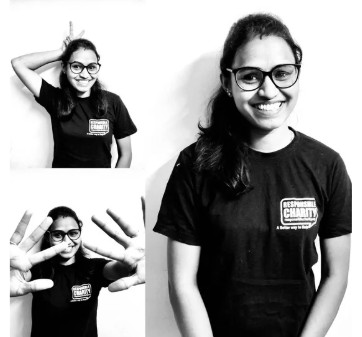
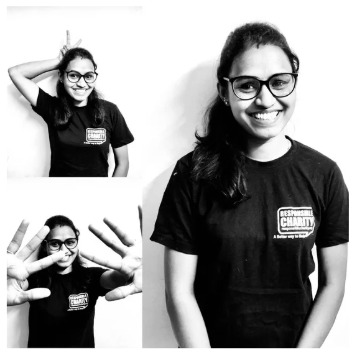
The team photos are now uncropped, and the Our Work section has been cleaned up with text sizes matched across relevant areas.
- The Our Story team grid displays every member's full photos without cropping, showing two playful shots alongside the full portrait, arranged in five per row similar to your reference image. No one appears cut off on desktop.
- In Our Work, the small “…and more” lines under Education, Health & Wellness, and Employment have been removed, and the duplicate Kolkata/Pune buttons under the Schools & Colleges boxes are gone, keeping one set of buttons per box.
- Text sizes for the Community Centers description on Our Story and the “Giving on behalf of a company? Let's talk about a CSR partnership” line on Donate now have been aligned to match the description size used in Our Work.
- I have checked the preview thoroughly: opened Our Story, Our Work, and Donate to confirm that all 16 team blocks render fully uncropped in the 5-column layout, stray texts and extra buttons are removed, and the text fixes match the desired sizes (24px on desktop).

Please open the preview yourself and examine the Our Story team grid to verify everything appears as expected. If you notice any issues or if further adjustments are needed, please let me know, and I can continue refining the build with comprehensive testing.

Reminder: press Deploy when you are ready to take this batch live. Note that preview and live site update separately.

Credentials & handoff: admin at /admin, passcode rc-aimgame-admin-2026 for testing. Donations remain simulated until Razorpay keys are added.

Next Action Items:
[…]

diff --git a/frontend/src/pages/Program.jsx b/frontend/src/pages/Program.jsx
@@ -68,8 +68,6 @@ const PILLARS = [
         ],
       },
     ],
-    closing: "…and so much more.",
-    albumLabel: "See the albums over the years",
   },
   {
     id: "healthcare",
@@ -108,8 +106,6 @@ const PILLARS = [
         ],
       },
     ],
-    closing: "…and more.",
-    albumLabel: "See the full Healthcare album",
   },
   {
     id: "employment",
@@ -147,8 +143,6 @@ const PILLARS = [
         ],
       },
     ],
-    closing: "…and more.",
-    albumLabel: "See the full Employment album",
   },
 ];
 
@@ -275,8 +269,9 @@ const PillarSection = ({ pillar }) => (
       </div>
 
       <Reveal delay={0.1}>
-        <p className="mt-10 text-ink-muted">{pillar.closing}</p>
-        <AlbumButtons page="our-work" block={pillar.id} align="start" />
+        <div className="mt-10">
+          <AlbumButtons page="our-work" block={pillar.id} align="start" />
+        </div>
       </Reveal>
     </div>
   </section>
@@ -373,33 +368,10 @@ const SchoolsPillar = () => (
         ))}
       </div>
 
-      <Reveal delay={0.1}>
-        <div className="mt-10 flex flex-wrap gap-2">
-          {[
-            { label: "PUNE", url: "https://www.facebook.com/media/set/?set=a.2511811812163179&type=3" },
-            { label: "KOLKATA", url: "https://www.facebook.com/media/set/?set=a.2511811812163179&type=3" },
-          ].map((a) => (
-            <a
-              key={a.label}
-              href={a.url}
-              target="_blank"
-              rel="noopener noreferrer"
-              data-testid={`schools-album-${a.label.toLowerCase()}`}
-              onClick={() => {
-                window.dataLayer = window.dataLayer || [];
-                window.dataLayer.push({ event: "album_click", page: "our-work", block: "schools", city: a.label });
-              }}
-              className="inline-flex min-h-[36px] items-center gap-1.5 rounded-full bg-leaf-soft border border-leaf/25 px-4 font-mono text-[10px] tracking-[0.15em] font-bold text-leaf transition-colors duration-300 hover:bg-leaf hover:text-white"
-            >
-              <Facebook className="h-3 w-3" />
-              {a.label}
-            </a>
-          ))}
-        </div>
-      </Reveal>
-
       <Reveal delay={0.12}>
-        <AlbumButtons page="our-work" block="schools" align="start" />
+        <div className="mt-10">
+          <AlbumButtons page="our-work" block="schools" align="start" />
+        </div>
       </Reveal>
     </div>
   </section>

diff --git a/frontend/src/pages/About.jsx b/frontend/src/pages/About.jsx
@@ -80,20 +80,16 @@ const About = () => (
           </Reveal>
         </div>
 
-        <div data-testid="story-collage" className="mt-14 grid grid-cols-2 sm:grid-cols-3 lg:grid-cols-4 gap-2 sm:gap-3">
+        <div data-testid="story-collage" className="mt-14 grid grid-cols-2 sm:grid-cols-3 lg:grid-cols-5 gap-3 sm:gap-5">
           {STORY_PHOTOS.map((p, i) => (
             <Reveal key={p.src} delay={0.05 + i * 0.04}>
-              <div
+              <img
                 data-testid={`story-photo-${i}`}
-                className="group w-full overflow-hidden rounded-2xl border border-ink/10 bg-white shadow-[0_20px_50px_-24px_rgba(15,23,42,0.25)]"
-              >
-                <img
-                  src={p.src}
-                  alt={p.alt}
-                  loading={i < 5 ? "eager" : "lazy"}
-                  className="h-full w-full object-cover aspect-[3/2] transition-transform duration-700 group-hover:scale-[1.04]"
-                />
-              </div>
+                src={p.src}
+                alt={p.alt}
+                loading={i < 5 ? "eager" : "lazy"}
+                className="w-full h-auto block"
+              />
             </Reveal>
           ))}
         </div>
@@ -126,7 +122,7 @@ const About = () => (
             </p>
           </Reveal>
           <Reveal delay={0.14}>
-            <p data-testid="centers-description" className="mt-6 text-leaf font-semibold text-lg sm:text-xl leading-relaxed">
+            <p data-testid="centers-description" className="mt-6 text-leaf font-semibold text-xl sm:text-2xl leading-relaxed">
               Our community centers are where the program lives day to day. After school, students come for
               tutoring, music classes, yoga and games. Parents come for meetings and workshops. Supplies are
               distributed here, and visitors are welcome by arrangement. It's a second home for our students,

diff --git a/frontend/src/pages/Partner.jsx b/frontend/src/pages/Partner.jsx
@@ -509,14 +509,14 @@ const Partner = () => {
             </p>
           </Reveal>
           <Reveal delay={0.24}>
-            <p className="mt-6 text-sm text-ink">
+            <p className="mt-6 text-xl sm:text-2xl text-ink font-semibold leading-relaxed">
               Giving on behalf of a company?{" "}
               <Link
                 to="/csr-partners"
                 data-testid="donate-csr-link"
                 className="inline-flex items-center gap-1 font-bold text-flame transition-colors hover:text-flame-dark"
               >
-                Let's talk about a CSR partnership <ArrowUpRight className="h-4 w-4" />
+                Let's talk about a CSR partnership <ArrowUpRight className="h-5 w-5" />
               </Link>
             </p>
           </Reveal>

diff --git a/memory/PRD.md b/memory/PRD.md
@@ -159,3 +159,11 @@ Brief (from PDF): A rebooted website for Responsible Charity (RC) Society, a reg
 - Batch (Oct 27, rev 9): (1) Donate page header now exactly matches the design mockup: centered title case "Donate Today and Be Part of the Journey" (ink + flame split), green centered subheader, centered gray intro paragraph, CSR partnership link left-aligned below. (2) Fixed donut rendering bug: the 12-segment chart rendered as a solid ring because tiny segments (0.3%) made strokeDasharray go negative — gap now only applied when segment length > 8. Donut renders green-dominant with orange operations wedge like the mockup. (3) CSR dropdown (Education / Health & Wellness / Career & Employment Counseling) was already live from rev 8 — user's screenshot was a stale pre-change capture
 - Batch (Oct 27, rev 10): DONATE page: (1) header block fully LEFT-aligned (h1 dark+flame split, green subheader), and the 3rd intro line is now BLACK (text-ink) at description size (text-lg sm:text-xl font-semibold) matching other pages' descriptions. (2) Donation widget rebuilt to match the mockup exactly: donor-type selection step REMOVED (flow starts at 01 AMOUNT; stepper now AMOUNT/DETAILS/DONE; CSR visitors use the "Giving on behalf of a company?" link to /csr-partners), default selected gift is ₹25,000 (tile 3), custom-amount input removed (6 gift cards only), big full-width DONATE pill button replaces Back/Continue, fine print under it ("Donations are accepted in INR…" + "Read the full donation terms." anchor link to the terms section, which now has id="donation-terms" scroll-mt-32), and "Prefer a bank transfer or UPI? Request our details." leaf link routes to the giving-desk step. Removed dead code: TYPES, StepType, StepQualify, qForm/doQualify/pickType, MIN_DONATION import; successMode is now explicit state ("donation" set by doPay, "conversation" by doDesk). Verified: AMOUNT step renders with 25000 preselected, DONATE → payment step, UPI link → giving desk, payment back → amount. NOTE: navbar shows the AimGame wordmark banner (banner.png) at top-right when unscrolled — pre-existing behavior, not from this batch
 - Batch (Oct 27, rev 11): (1) GLOBAL TYPOGRAPHY RULE applied to all pages except Home (keeps larger hero font): HEADER green (text-leaf uppercase), SUBHEADER orange (text-flame), DESCRIPTION green (text-leaf) at Our-Story size (text-xl sm:text-2xl) — bumped description sizes on Our Work (pillar intros + page description), Results, CSR, Let's Talk; Donate header now all-green caps, subheader flame at text-3xl/4xl, intro leaf at description size. (2) Homepage rotation order is now Vishnu, Neha, Sk. Karim, Firdus — SCHOLAR_SETS reordered [b,e,c,d] AND ScholarStrip rotation now starts only after the intro reveal (rotateDelay prop = flipDone+HOLD_MS ≈ 4.82s passed from Home) so the first set visitors see is Vishnu (timer previously ran from mount, so set C showed first). (3) Our Story team grid: all 16 photos replaced by tiles sliced from the new B&W team collage (/app/.image-sources/team-collage.png → team-1..16.jpg; each tile = one person's gesture stack + formal portrait; grid now 2/3/4-col with aspect-[3/2] tiles). (4) Internships header: "Show Up, Play, Teach, Repeat!" (commas replace full stops). (5) CSR: submit button "Request a Call from Our Team"; paragraphs bumped. (6) Let's Talk: submit button now "Send"; descriptions bumped. (7) Donate: bank-transfer/UPI link is now a bordered leaf chip (stands out); disclaimer list updated to the 7-point version (adds AimGame/RCS receipt-name point). (8) Results: graduate rows renamed with degrees — Vishnu Dore (Bachelor of Commerce), Neha Prajapati (Bachelor of Commerce (B.Com.)), Sk. Karim (B.Sc. Hotel Management), Firdus Ali (Bachelor of Business Administration); degree renders under each name; Diamond tier names updated to match (photo files copied to sk.-karim.jpg / firdus-ali.jpg for slug lookup). (9) Our Work: Education + Health & Wellness intros updated to the new full sentences; Schools & Colleges logo grid REMOVED (city pills kept); each Parent Partnership box now has all three city buttons (KOLKATA=a.116071365070581, PUNE=a.495665887111125, MUMBAI=a.1808015935876107); Milestones card got NATIONAL button (a.2477953108882383); PARTNER_LOGOS const deleted. NOTE: a deploy ran in background mid-batch — these changes landed after it started, so a fresh Deploy is needed to take them live
+
+## 2026-10-27 — Team grid uncropped + Our Work/Donate cleanup
+- OUR STORY team grid re-sliced from team-collage.png into 16 full member blocks (2 small shots + large portrait per member, NO cropping). Grid now 5 per row (lg), plain images on white matching user ref img. Replaced previous aspect-[3/2] object-cover tiles that cut people out.
+- OUR STORY community centers description bumped to text-xl sm:text-2xl to match OUR WORK description size (24px desktop).
+- OUR WORK: removed "…and so much more."/"…and more." closing lines under Education, Health & Wellness, Employment (and removed now-unused closing/albumLabel fields from PILLARS data). Removed extra PUNE/KOLKATA album buttons beneath the two Schools & Colleges boxes (each box keeps its own in-card buttons).
+- DONATE: "Giving on behalf of a company? Let's talk about a CSR partnership" bumped to text-xl sm:text-2xl (24px) to match description text.
+- Verified via preview screenshots: team grid 5-col uncropped, centers description 24px, no closing text, no extra schools buttons, CSR line 24px.
+- NOTE: preview URL is foundation-site-12.preview.emergentagent.com (routes: /about /program /partner). Deploy status unknown — remind user to press Deploy.
